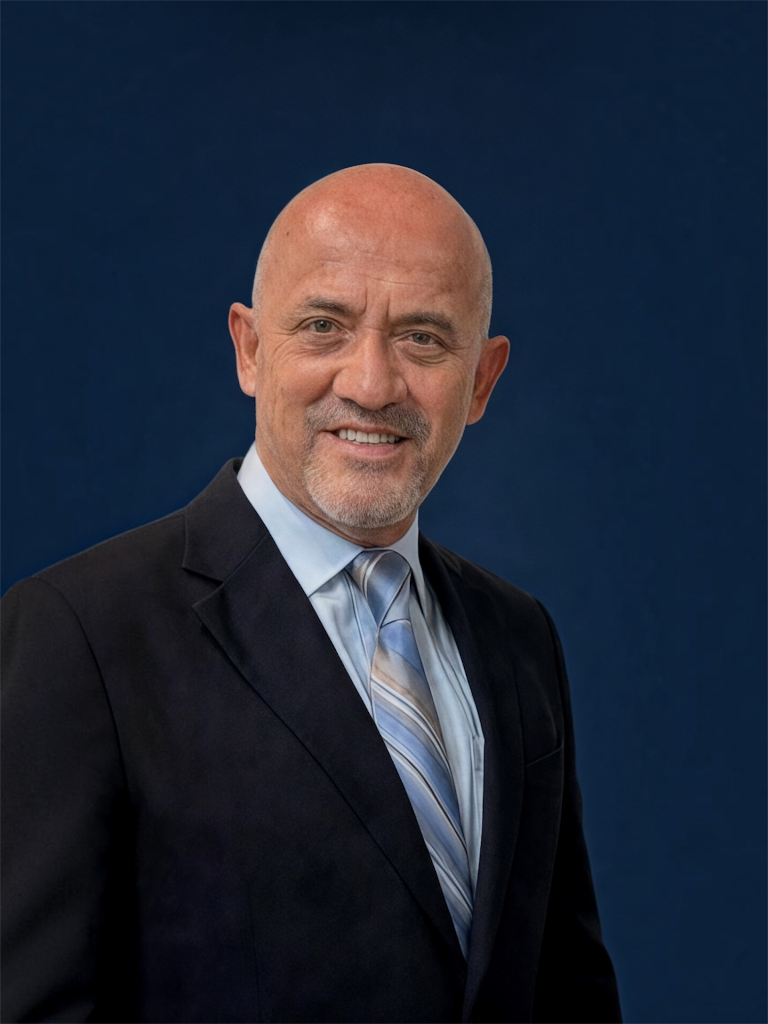
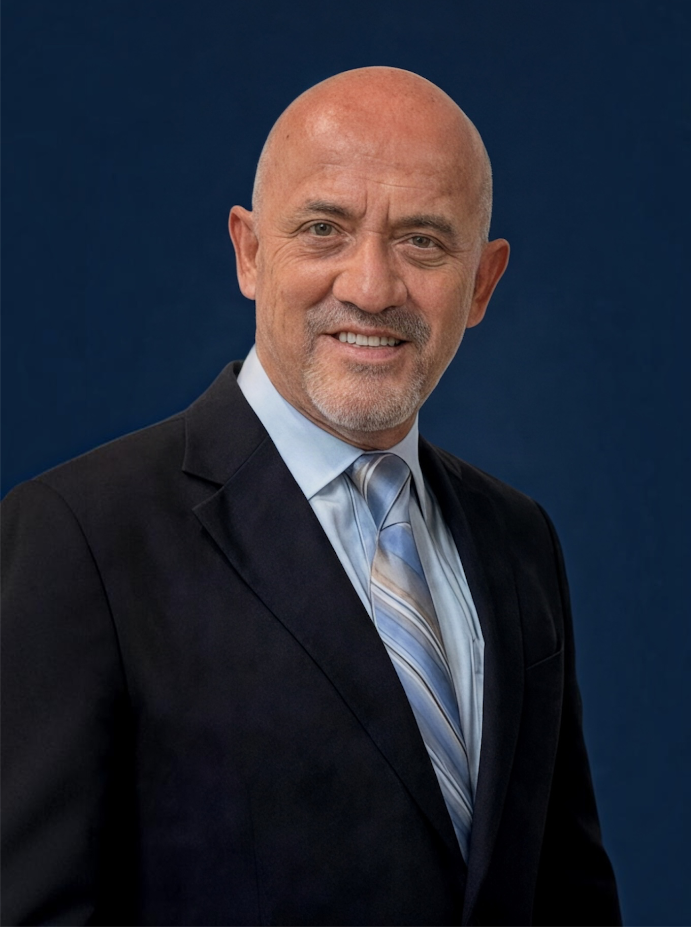
Actualiza foto de Susana Cabrera a formato jpg

Changed region(s): [[0.0, 0.0604, 0.9117, 1.0], [0.3343, 0.6041, 0.3647, 0.6343], [0.3039, 0.5739, 0.3343, 0.6041]]

diff --git a/src/components/Speakers.jsx b/src/components/Speakers.jsx
@@ -798,7 +798,7 @@ const speakersData = [
     talkName: "Inteligencia Artificial vs. Inteligencia Natural: Retos de la Educación y la Sociedad"
   },
   {
-    img: "/speakers/susana-cabrera.png",
+    img: "/speakers/susana-cabrera.jpg",
     initials: "SC",
     name: "Susana Cabrera",
     company: "Universidad Kirei",
